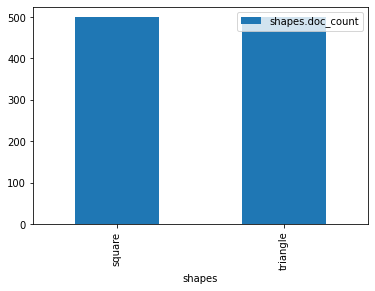
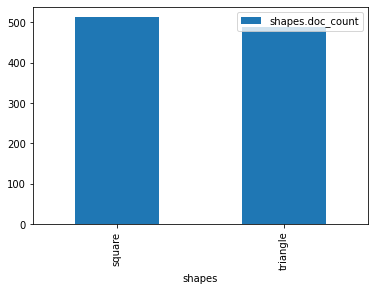
fix to another seed because it was exactly 500 triangles vs 500 squares

diff --git a/docs/tutorial.rst b/docs/tutorial.rst
@@ -25,11 +25,11 @@ generate some data.
             }
         }
 
-The **INDEX\_NAME** is obviously the name of the elasticsearch index.
-The **MAPPINGS** parameter describes the `elasticsearch
+The ``INDEX_NAME`` is obviously the name of the elasticsearch index. The
+``MAPPINGS`` parameter describes the `elasticsearch
 mapping <https://www.elastic.co/guide/en/elasticsearch/reference/current/mapping.html>`__.
 Here we say that documents will at least have these common fields, one
-of type **float** and two of type **keyword** which means they are
+of type ``float`` and two of type ``keyword`` which means they are
 strings but not full-text searchable ones. Instead they are efficiently
 indexed and aggregatable.
 
@@ -39,7 +39,7 @@ The data we create out of thin air..
 
     import random
     
-    def shape_generator(count=1000, seed=23):
+    def shape_generator(count=1000, seed=42):
         rnd = random.Random(seed)
         for i in range(count):
             yield {
@@ -243,40 +243,40 @@ Better execute the search now before the body get's too complicated:
         "failed": 0
       },
       "hits": {
-        "total": 166,
-        "max_score": 2.1203249,
+        "total": 185,
+        "max_score": 2.1868048,
         "hits": [
           {
             "_index": "elastipy-example-shapes",
             "_type": "_doc",
-            "_id": "Z37_EncBeebHNMb6A8FQ",
-            "_score": 2.1203249,
+            "_id": "9X4IE3cBeebHNMb6-Niq",
+            "_score": 2.1868048,
             "_source": {
               "shape": "square",
-              "color": "green",
-              "area": 7.263731074718455
+              "color": "red",
+              "area": 9.422362274394294
             }
           },
           {
             "_index": "elastipy-example-shapes",
             "_type": "_doc",
-            "_id": "dH7_EncBeebHNMb6A8FQ",
-            "_score": 2.1203249,
+            "_id": "NX4IE3cBeebHNMb6-Nmq",
+            "_score": 2.1868048,
             "_source": {
               "shape": "triangle",
-              "color": "green",
-              "area": 6.012755425383653
+              "color": "red",
+              "area": 8.011022752102972
             }
           },
           {
             "_index": "elastipy-example-shapes",
             "_type": "_doc",
-            "_id": "d37_EncBeebHNMb6A8FQ",
-            "_score": 2.1203249,
+            "_id": "WX4IE3cBeebHNMb6-Nmq",
+            "_score": 2.1868048,
             "_source": {
               "shape": "square",
-              "color": "green",
-              "area": 5.783465577671204
+              "color": "red",
+              "area": 8.001834685241512
             }
           }
         ]
@@ -296,9 +296,9 @@ convenience properties.
 
 .. parsed-literal::
 
-    [{'shape': 'square', 'color': 'green', 'area': 7.263731074718455},
-     {'shape': 'triangle', 'color': 'green', 'area': 6.012755425383653},
-     {'shape': 'square', 'color': 'green', 'area': 5.783465577671204}]
+    [{'shape': 'square', 'color': 'red', 'area': 9.422362274394294},
+     {'shape': 'triangle', 'color': 'red', 'area': 8.011022752102972},
+     {'shape': 'square', 'color': 'red', 'area': 8.001834685241512}]
 
 
 
@@ -332,26 +332,26 @@ allows for short and powerful oneliners:
 
 .. parsed-literal::
 
-    [{'shape': 'triangle', 'color': 'blue', 'area': 10.429612563121568},
-     {'shape': 'triangle', 'color': 'blue', 'area': 8.631278664614928},
-     {'shape': 'triangle', 'color': 'green', 'area': 8.383293158814908},
-     {'shape': 'square', 'color': 'red', 'area': 8.236889913615816},
-     {'shape': 'triangle', 'color': 'red', 'area': 8.157738475146177},
-     {'shape': 'triangle', 'color': 'blue', 'area': 8.149289701139908},
-     {'shape': 'triangle', 'color': 'red', 'area': 8.1241500335766},
-     {'shape': 'square', 'color': 'green', 'area': 8.09185625330105},
-     {'shape': 'triangle', 'color': 'blue', 'area': 8.08735770969464},
-     {'shape': 'square', 'color': 'green', 'area': 7.977278235020664},
-     {'shape': 'triangle', 'color': 'red', 'area': 7.938468252124386},
-     {'shape': 'triangle', 'color': 'red', 'area': 7.886810892882312},
-     {'shape': 'square', 'color': 'red', 'area': 7.884563035795223},
-     {'shape': 'square', 'color': 'blue', 'area': 7.87039265833457},
-     {'shape': 'triangle', 'color': 'red', 'area': 7.8174214918916025},
-     {'shape': 'triangle', 'color': 'red', 'area': 7.707584538303967},
-     {'shape': 'square', 'color': 'red', 'area': 7.704892192610947},
-     {'shape': 'triangle', 'color': 'green', 'area': 7.641915136804204},
-     {'shape': 'triangle', 'color': 'blue', 'area': 7.592409852960503},
-     {'shape': 'square', 'color': 'red', 'area': 7.542068017226418}]
+    [{'shape': 'triangle', 'color': 'red', 'area': 10.609408732815844},
+     {'shape': 'square', 'color': 'blue', 'area': 9.785991184126697},
+     {'shape': 'square', 'color': 'red', 'area': 9.422362274394294},
+     {'shape': 'triangle', 'color': 'blue', 'area': 9.24591971667655},
+     {'shape': 'square', 'color': 'blue', 'area': 9.11442473191995},
+     {'shape': 'square', 'color': 'green', 'area': 8.928816107277179},
+     {'shape': 'square', 'color': 'blue', 'area': 8.473742067630953},
+     {'shape': 'triangle', 'color': 'green', 'area': 8.128635913090859},
+     {'shape': 'triangle', 'color': 'blue', 'area': 8.033908240900079},
+     {'shape': 'square', 'color': 'green', 'area': 8.030514737232895},
+     {'shape': 'triangle', 'color': 'red', 'area': 8.011022752102972},
+     {'shape': 'square', 'color': 'red', 'area': 8.001834685241512},
+     {'shape': 'square', 'color': 'green', 'area': 7.986094071679083},
+     {'shape': 'square', 'color': 'blue', 'area': 7.984604837392737},
+     {'shape': 'triangle', 'color': 'blue', 'area': 7.965890845028483},
+     {'shape': 'square', 'color': 'green', 'area': 7.937110248587943},
+     {'shape': 'square', 'color': 'blue', 'area': 7.933212484940288},
+     {'shape': 'triangle', 'color': 'blue', 'area': 7.900062931477738},
+     {'shape': 'square', 'color': 'green', 'area': 7.892344075058484},
+     {'shape': 'triangle', 'color': 'blue', 'area': 7.883278182699227}]
 
 
 
@@ -453,11 +453,11 @@ Let's look at the result from elasticsearch:
           "buckets": [
             {
               "key": "square",
-              "doc_count": 500
+              "doc_count": 513
             },
             {
               "key": "triangle",
-              "doc_count": 500
+              "doc_count": 487
             }
           ]
         }
@@ -480,7 +480,7 @@ access the values more conveniently:
 
 .. parsed-literal::
 
-    {'square': 500, 'triangle': 500}
+    {'square': 513, 'triangle': 487}
 
 
 
@@ -495,8 +495,8 @@ known from the ``dict`` type:
 
 .. parsed-literal::
 
-    square       500
-    triangle     500
+    square       513
+    triangle     487
 
 
 It also has a ``dict_rows()`` generator which preserves the **names**
@@ -510,8 +510,8 @@ and **keys** of the aggregation:
 
 .. parsed-literal::
 
-    {'shapes': 'square', 'shapes.doc_count': 500}
-    {'shapes': 'triangle', 'shapes.doc_count': 500}
+    {'shapes': 'square', 'shapes.doc_count': 513}
+    {'shapes': 'triangle', 'shapes.doc_count': 487}
 
 
 The ``rows()`` generator flattens the ``dict_rows()`` into a CSV-style
@@ -526,8 +526,8 @@ list:
 .. parsed-literal::
 
     ['shapes', 'shapes.doc_count']
-    ['square', 500]
-    ['triangle', 500]
+    ['square', 513]
+    ['triangle', 487]
 
 
 And we can print a nice table to the command-line:
@@ -539,10 +539,10 @@ And we can print a nice table to the command-line:
 
 .. parsed-literal::
 
-    shapes   │ shapes.doc_count
-    ─────────┼─────────────────
-    square   │ 500             
-    triangle │ 500             
+    shapes   │ shapes.doc_count                           
+    ─────────┼────────────────────────────────────────────
+    square   │ 513 ███████████████████████████████████████
+    triangle │ 487 █████████████████████████████████████  
 
 
 (The ``colors=False`` parameter disables console colors because they do
@@ -592,11 +592,11 @@ built in:
       <tbody>
         <tr>
           <th>square</th>
-          <td>500</td>
+          <td>513</td>
         </tr>
         <tr>
           <th>triangle</th>
-          <td>500</td>
+          <td>487</td>
         </tr>
       </tbody>
     </table>
@@ -628,8 +628,8 @@ interface <https://pandas.pydata.org/pandas-docs/stable/reference/api/pandas.Dat
 .. image:: tutorial_files/tutorial_57_1.png
 
 
-Now let's look into the details when **metrics** or nested **bucket**
-aggregations are involved.
+Satisfied with a little graphic we feel more confident and look into the
+details of **metrics** and nested **bucket** aggregations.
 
 deeper aggregation agitation
 ~~~~~~~~~~~~~~~~~~~~~~~~~~~~
@@ -640,7 +640,7 @@ deeper aggregation agitation
         .agg_terms("shapes", field="shape") \
         .agg_terms("colors", field="color") \
         .metric_sum("area", field="area") \
-        .metric_avg("avg-area", field="area") \
+        .metric_avg("area-avg", field="area") \
         .execute()
 
 A few notes:
@@ -666,12 +666,12 @@ Now, what does the ``to_dict`` output look like?
 
 .. parsed-literal::
 
-    {('square', 'green'): 180,
-     ('square', 'red'): 168,
-     ('square', 'blue'): 152,
-     ('triangle', 'red'): 185,
-     ('triangle', 'blue'): 169,
-     ('triangle', 'green'): 146}
+    {('square', 'blue'): 178,
+     ('square', 'green'): 170,
+     ('square', 'red'): 165,
+     ('triangle', 'blue'): 177,
+     ('triangle', 'green'): 170,
+     ('triangle', 'red'): 140}
 
 
 
@@ -686,7 +686,7 @@ lot of thinking we can say:
 
 .. parsed-literal::
 
-    There are 185 red triangles in the database!
+    There are 140 red triangles in the database!
 
 
 But where are the metrics gone?
@@ -704,7 +704,7 @@ branch. In this example the branch looks like this:
 -  colors
 
    -  area
-   -  avg-area
+   -  area-avg
 
 .. code:: python3
 
@@ -713,14 +713,14 @@ branch. In this example the branch looks like this:
 
 .. parsed-literal::
 
-    shapes   │ shapes.doc_count │ colors │ colors.doc_count     │ area                    │ avg-area              
-    ─────────┼──────────────────┼────────┼──────────────────────┼─────────────────────────┼───────────────────────
-    square   │ 500              │ green  │ 180 ███████████████▋ │ 893.291 ██████████████▌ │ 4.963 ███████████████▋
-    square   │ 500              │ red    │ 168 ██████████████▋  │ 801.394 █████████████   │  4.77 ███████████████ 
-    square   │ 500              │ blue   │ 152 █████████████▍   │ 763.321 ████████████▌   │ 5.022 ███████████████▊
-    triangle │ 500              │ red    │ 185 ████████████████ │  925.21 ███████████████ │ 5.001 ███████████████▊
-    triangle │ 500              │ blue   │ 169 ██████████████▋  │ 861.256 ██████████████  │ 5.096 ████████████████
-    triangle │ 500              │ green  │ 146 ████████████▊    │ 738.947 ████████████▎   │ 5.061 ███████████████▉
+    shapes   │ shapes.doc_count    │ colors │ colors.doc_count    │ area                    │ area-avg            
+    ─────────┼─────────────────────┼────────┼─────────────────────┼─────────────────────────┼─────────────────────
+    square   │ 513 ███████████████ │ blue   │ 178 ███████████████ │ 920.602 ███████████████ │ 5.172 █████████████▉
+    square   │ 513 ███████████████ │ green  │ 170 ██████████████▍ │ 882.643 ██████████████▍ │ 5.192 ██████████████
+    square   │ 513 ███████████████ │ red    │ 165 █████████████▉  │ 848.229 █████████████▉  │ 5.141 █████████████▉
+    triangle │ 487 ██████████████▍ │ blue   │ 177 ██████████████▉ │ 891.198 ██████████████▌ │ 5.035 █████████████▋
+    triangle │ 487 ██████████████▍ │ green  │ 170 ██████████████▍ │ 834.699 █████████████▋  │  4.91 █████████████▍
+    triangle │ 487 ██████████████▍ │ red    │ 140 ███████████▉    │ 704.332 ███████████▋    │ 5.031 █████████████▋
 
 
 Now all information is in the table. Note that the ``shapes.doc_count``
@@ -741,8 +741,8 @@ Now what is this method with the awesome name ``to_matrix``?
 .. parsed-literal::
 
     names  ['shapes', 'colors']
-    keys   [['square', 'triangle'], ['green', 'red', 'blue']]
-    matrix [[180, 168, 152], [146, 185, 169]]
+    keys   [['square', 'triangle'], ['blue', 'green', 'red']]
+    matrix [[178, 170, 165], [177, 170, 140]]
 
 
 It produces a heatmap! At least in two dimensions. In this example we
@@ -778,23 +778,23 @@ dimensions, but if it's one or two, we can also convert it to a
       <thead>
         <tr style="text-align: right;">
           <th></th>
+          <th>blue</th>
           <th>green</th>
           <th>red</th>
-          <th>blue</th>
         </tr>
       </thead>
       <tbody>
         <tr>
           <th>square</th>
-          <td>180</td>
-          <td>168</td>
-          <td>152</td>
+          <td>178</td>
+          <td>170</td>
+          <td>165</td>
         </tr>
         <tr>
           <th>triangle</th>
-          <td>146</td>
-          <td>185</td>
-          <td>169</td>
+          <td>177</td>
+          <td>170</td>
+          <td>140</td>
         </tr>
       </tbody>
     </table>
